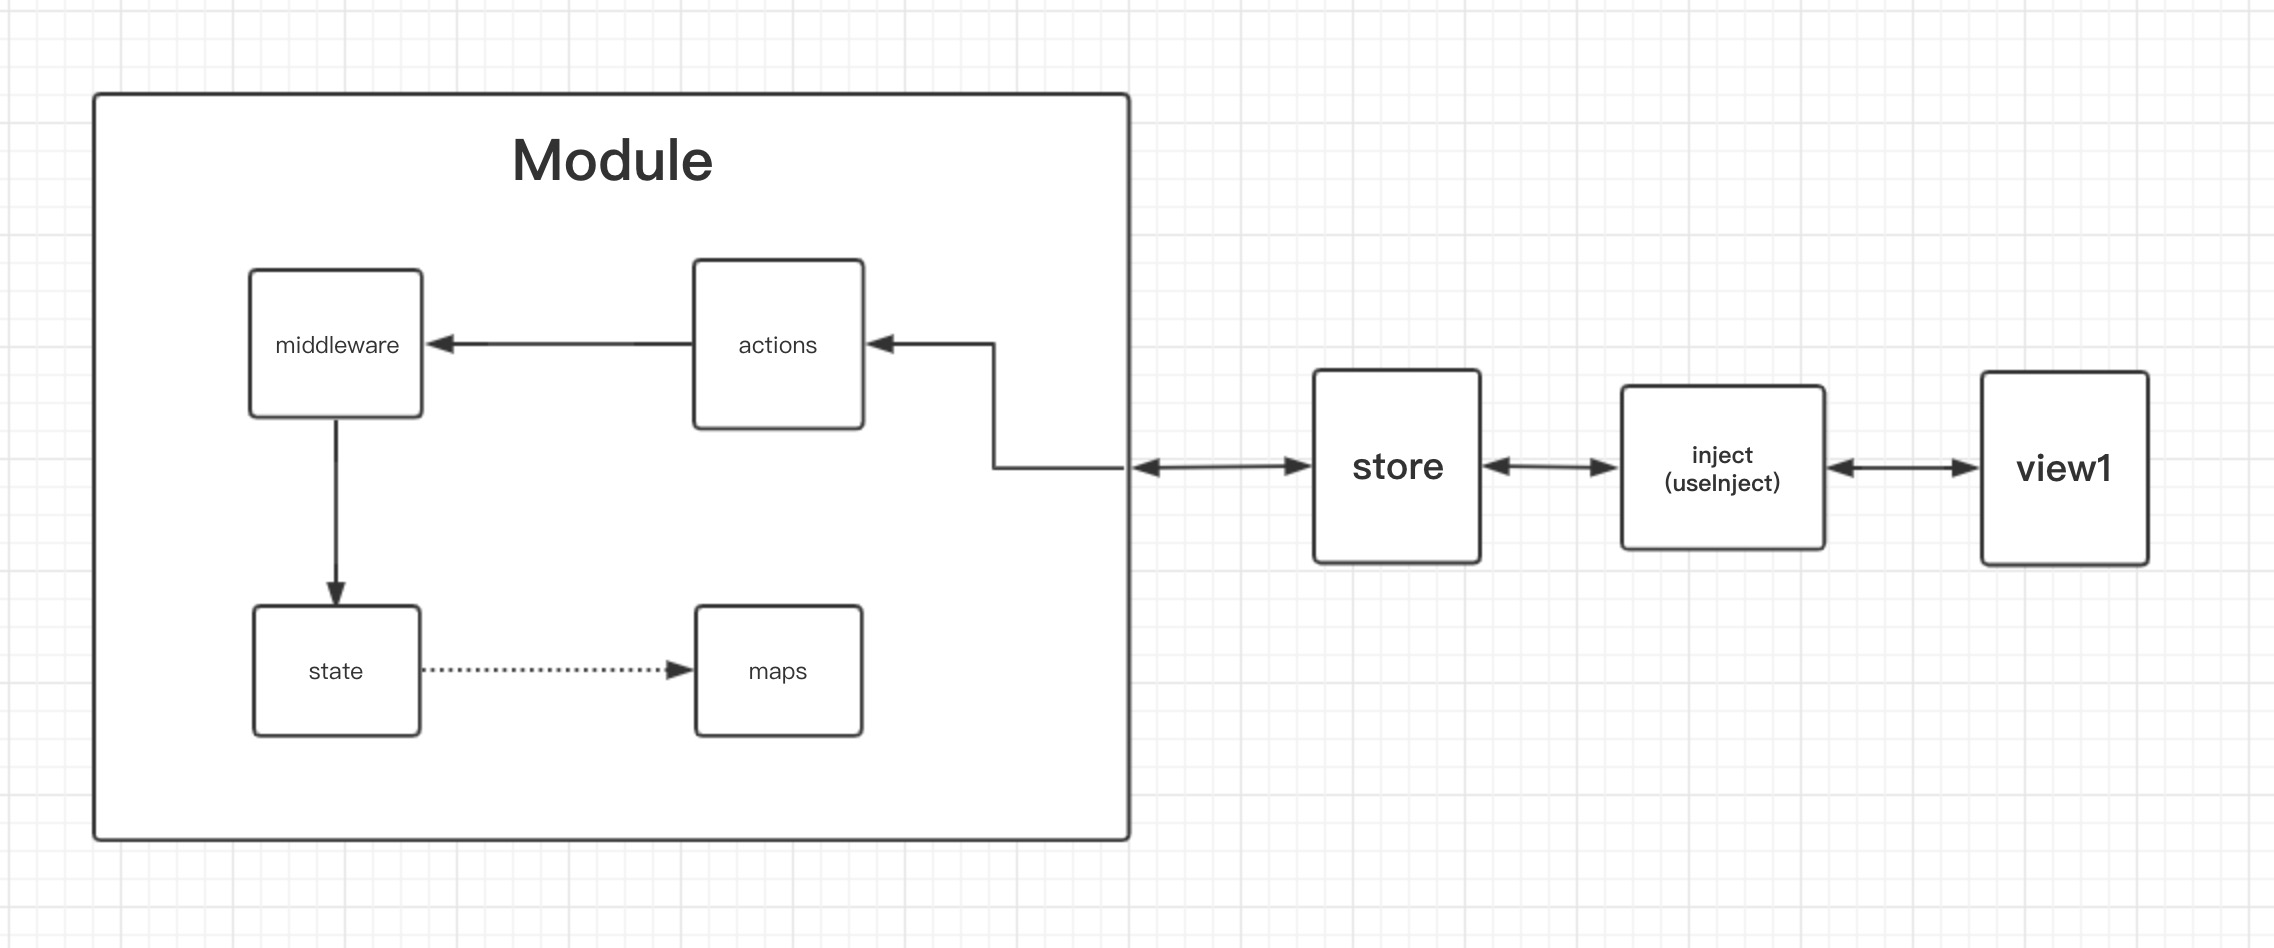
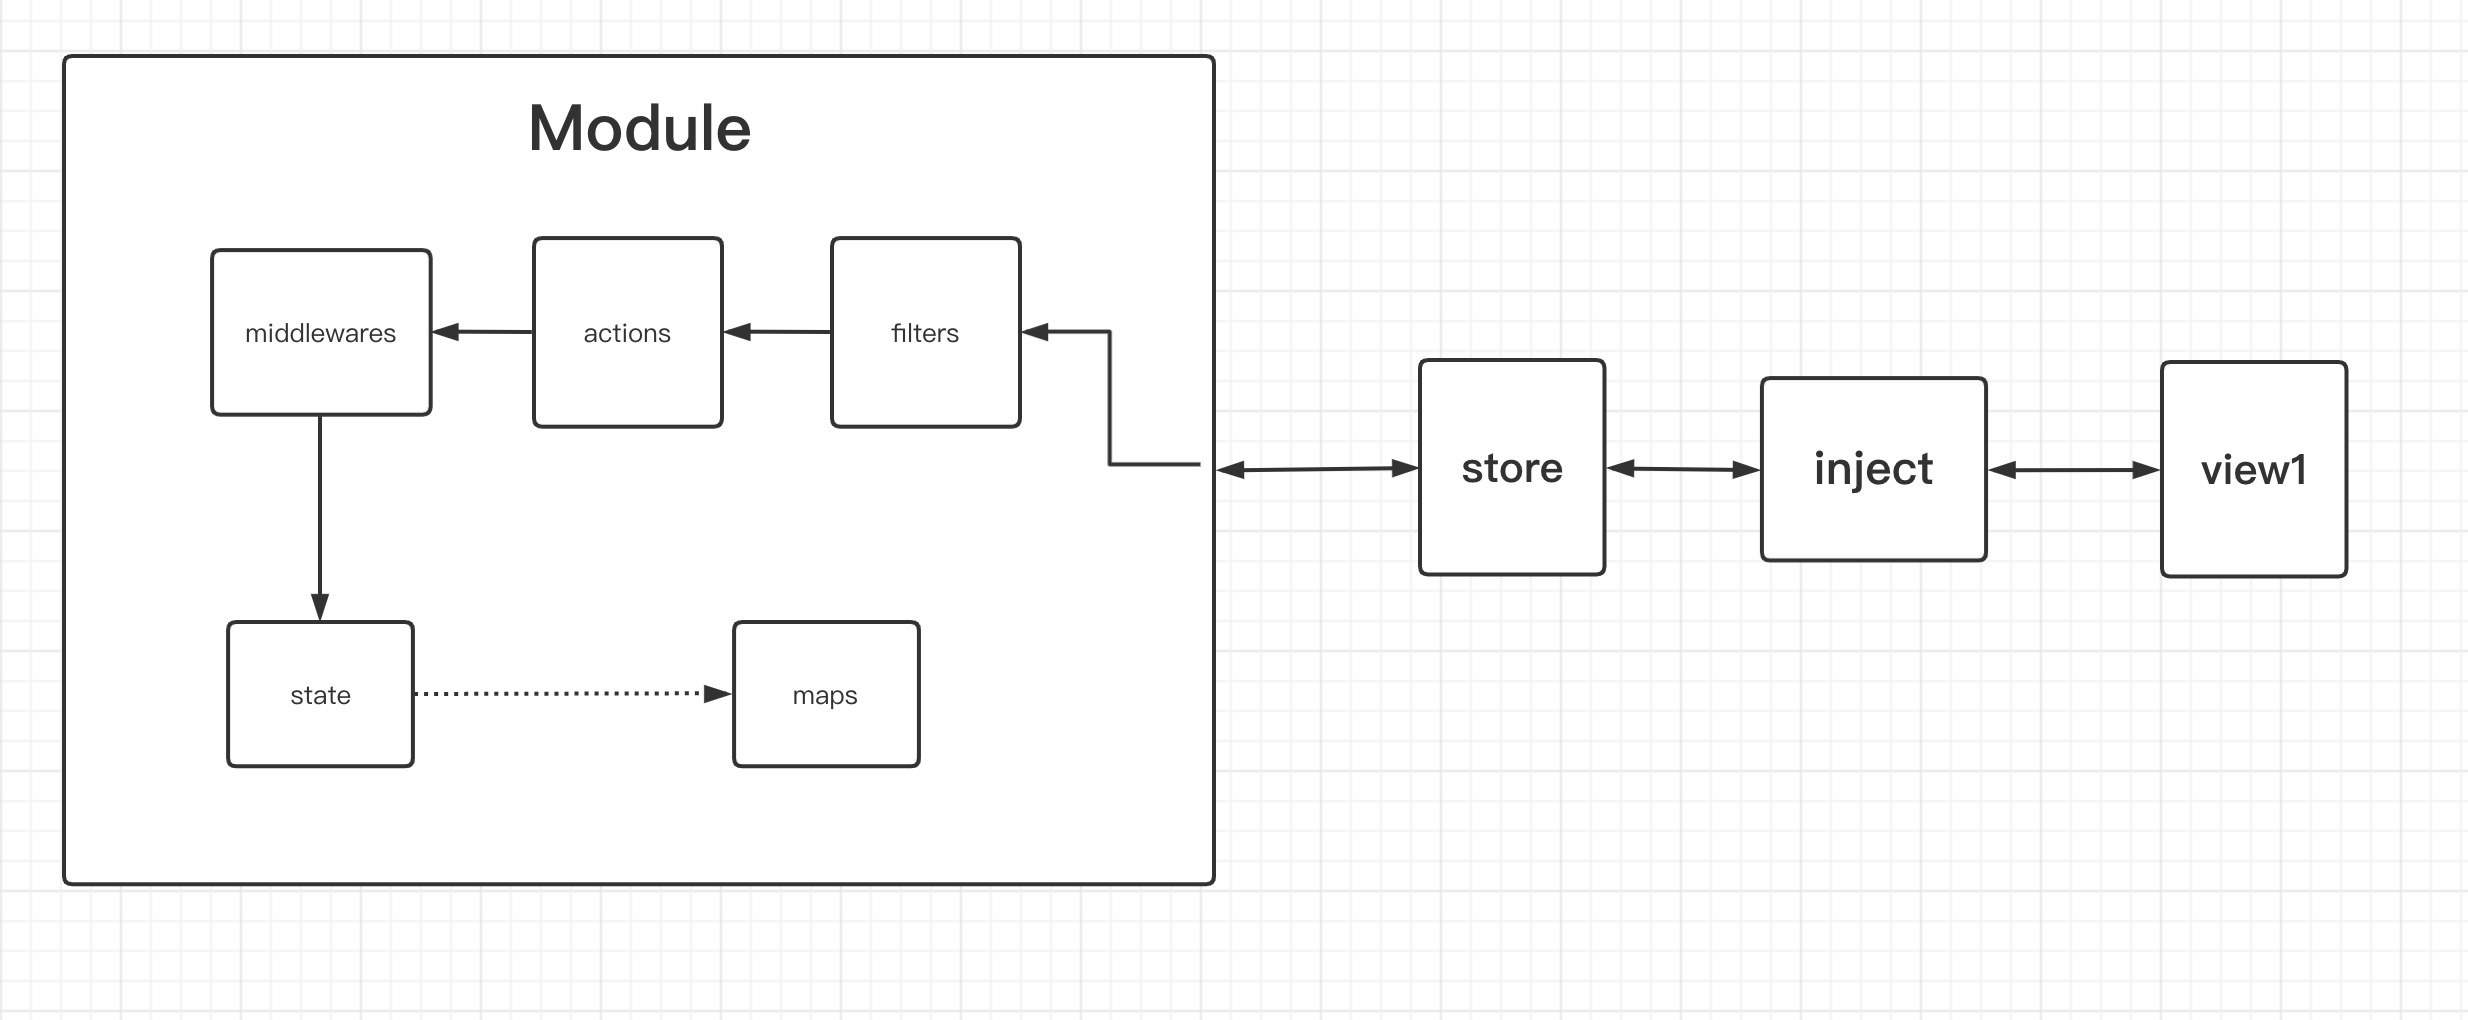
filter更名为interceptor

Changed region(s): [[0.0312, 0.0918, 0.9679, 0.8871], [0.0312, 0.0306, 0.4996, 0.0612]]

diff --git a/src/createStore.ts b/src/createStore.ts
@@ -26,7 +26,7 @@ import {
 	Action,
 	PromiseModuleType,
 	AllStates,
-	Filter,
+	Interceptor,
 } from "./ts-utils";
 
 import MapCache from "./MapCache";
@@ -37,7 +37,7 @@ const createStore = <M extends Modules, LM extends LazyStoreModules>(
 	{
 		initStates = {},
 		middlewares = [],
-		filters = [],
+		interceptors = [],
 	}: {
 		initStates?: Partial<
 			{
@@ -48,7 +48,7 @@ const createStore = <M extends Modules, LM extends LazyStoreModules>(
 			}
 		>,
 		middlewares?: Middleware<GenerateStoreType<M, LM>>[],
-		filters?: Filter<GenerateStoreType<M, LM>>[]
+		interceptors?: Interceptor<GenerateStoreType<M, LM>>[]
 	} = {}
 ) => {
 	// type ModuleName = keyof M | keyof LM;
@@ -109,7 +109,7 @@ const createStore = <M extends Modules, LM extends LazyStoreModules>(
 	 * 存放createStore中传入的middlewares配置
 	 */
 	let currentMiddlewares = [...middlewares];
-	let currentFilters = [...filters];
+	let currentInterceptors = [...interceptors];
 	/**
 	 * 这是一个缓存，用于存放，每个模块对应的setState代理
 	 * 在每个模块生成对应的action代理时，会产生一个setState的方法，
@@ -590,12 +590,12 @@ const createStore = <M extends Modules, LM extends LazyStoreModules>(
 			Middleware<StoreType>
 		>)(setState);
 
-		const filterChain = currentFilters.map(
-			(middleware: Filter<StoreType>) =>
+		const filterChain = currentInterceptors.map(
+			(middleware: Interceptor<StoreType>) =>
 				middleware(middlewareParams as any)
 		);
-		const runActionProxyWithFilters = (compose(...filterChain) as ReturnType<
-			Filter<StoreType>
+		const runActionProxyWithInterceptors = (compose(...filterChain) as ReturnType<
+			Interceptor<StoreType>
 		>)(filterRecord => {
 			return setStateProxyWithMiddleware({
 				moduleName,
@@ -606,7 +606,7 @@ const createStore = <M extends Modules, LM extends LazyStoreModules>(
 		
 		setStateProxyWithMiddlewareCache[moduleName] = setStateProxyWithMiddleware;
 
-		return (actionName: string, ...actionArgs: any[]) => runActionProxyWithFilters({
+		return (actionName: string, ...actionArgs: any[]) => runActionProxyWithInterceptors({
 			moduleName,
 			actionName,
 			actionArgs
@@ -640,7 +640,7 @@ const createStore = <M extends Modules, LM extends LazyStoreModules>(
 		listeners = {};
 		allModuleNames = undefined;
 		currentMiddlewares = [];
-		currentFilters = [];
+		currentInterceptors = [];
 	};
 	/**
 	 * 初始化store

diff --git a/dist/createStore.js b/dist/createStore.js
@@ -28,8 +28,8 @@ var createStore = function createStore(modules, lazyModules, _temp) {
       initStates = _ref$initStates === void 0 ? {} : _ref$initStates,
       _ref$middlewares = _ref.middlewares,
       middlewares = _ref$middlewares === void 0 ? [] : _ref$middlewares,
-      _ref$filters = _ref.filters,
-      filters = _ref$filters === void 0 ? [] : _ref$filters;
+      _ref$interceptors = _ref.interceptors,
+      interceptors = _ref$interceptors === void 0 ? [] : _ref$interceptors;
 
   /**
    * 存放store实例
@@ -77,7 +77,7 @@ var createStore = function createStore(modules, lazyModules, _temp) {
    */
 
   var currentMiddlewares = [].concat(middlewares);
-  var currentFilters = [].concat(filters);
+  var currentInterceptors = [].concat(interceptors);
   /**
    * 这是一个缓存，用于存放，每个模块对应的setState代理
    * 在每个模块生成对应的action代理时，会产生一个setState的方法，
@@ -607,10 +607,10 @@ var createStore = function createStore(modules, lazyModules, _temp) {
       return middleware(middlewareParams);
     });
     var setStateProxyWithMiddleware = compose.apply(void 0, middlewareChain)(setState);
-    var filterChain = currentFilters.map(function (middleware) {
+    var filterChain = currentInterceptors.map(function (middleware) {
       return middleware(middlewareParams);
     });
-    var runActionProxyWithFilters = compose.apply(void 0, filterChain)(function (filterRecord) {
+    var runActionProxyWithInterceptors = compose.apply(void 0, filterChain)(function (filterRecord) {
       return setStateProxyWithMiddleware({
         moduleName: moduleName,
         actionName: filterRecord.actionName,
@@ -623,7 +623,7 @@ var createStore = function createStore(modules, lazyModules, _temp) {
         actionArgs[_key3 - 1] = arguments[_key3];
       }
 
-      return runActionProxyWithFilters({
+      return runActionProxyWithInterceptors({
         moduleName: moduleName,
         actionName: actionName,
         actionArgs: actionArgs
@@ -663,7 +663,7 @@ var createStore = function createStore(modules, lazyModules, _temp) {
     listeners = {};
     allModuleNames = undefined;
     currentMiddlewares = [];
-    currentFilters = [];
+    currentInterceptors = [];
   };
   /**
    * 初始化store

diff --git a/dist/ts-utils.d.ts b/dist/ts-utils.d.ts
@@ -62,21 +62,21 @@ export declare type ModuleName<M, LM> = keyof M | keyof LM;
 export declare type Middleware<StoreType extends {
     [k: string]: InjectStoreModule;
 }> = (middlewareParams: MiddlewareParams<StoreType>) => (next: MiddlewareNext) => MiddlewareNext;
-export declare type FilterActionRecord = {
+export declare type InterceptorActionRecord = {
     moduleName: string;
     actionName: string;
     actionArgs: Parameters<Action>;
 };
-export declare type FilterNext = (record: FilterActionRecord) => ReturnType<Action>;
-export declare type FilterParams<StoreType extends InjectStoreModules> = {
+export declare type InterceptorNext = (record: InterceptorActionRecord) => ReturnType<Action>;
+export declare type InterceptorParams<StoreType extends InjectStoreModules> = {
     setState: MiddlewareNext;
     getState: () => State;
     getMaps: () => InjectMaps | undefined;
     dispatch: <MN extends keyof StoreType, AN extends keyof StoreType[MN]['actions']>(moduleName: MN, actionName: AN, ...arg: Parameters<StoreType[MN]['actions'][AN]>) => ReturnType<StoreType[MN]['actions'][AN]>;
 };
-export declare type Filter<StoreType extends {
+export declare type Interceptor<StoreType extends {
     [k: string]: InjectStoreModule;
-}> = (filterParams: FilterParams<StoreType>) => (next: FilterNext) => FilterNext;
+}> = (filterParams: InterceptorParams<StoreType>) => (next: InterceptorNext) => InterceptorNext;
 declare type Fn<T extends Array<any>, S extends any> = (...arg: T) => S;
 declare type ActionArg<Action extends AnyFun> = Parameters<Action>;
 /**

diff --git a/src/ts-utils.ts b/src/ts-utils.ts
@@ -81,24 +81,24 @@ export type Middleware<StoreType extends {
 
 
 
-export type FilterActionRecord = {
+export type InterceptorActionRecord = {
 	moduleName: string, 
 	actionName: string, 
 	actionArgs: Parameters<Action>
 };
 
-export type FilterNext = (record: FilterActionRecord) => ReturnType<Action>;
+export type InterceptorNext = (record: InterceptorActionRecord) => ReturnType<Action>;
 
-export type FilterParams<StoreType extends InjectStoreModules> = {
+export type InterceptorParams<StoreType extends InjectStoreModules> = {
 	setState: MiddlewareNext,
 	getState: () => State,
 	getMaps: () => InjectMaps | undefined,
 	dispatch: <MN extends keyof StoreType, AN extends keyof StoreType[MN]['actions']>(moduleName: MN, actionName: AN, ...arg: Parameters<StoreType[MN]['actions'][AN]>) => ReturnType<StoreType[MN]['actions'][AN]>;
 };
 
-export type Filter<StoreType extends {
+export type Interceptor<StoreType extends {
 	[k: string]: InjectStoreModule
-}> = (filterParams: FilterParams<StoreType>) => (next: FilterNext) => FilterNext;
+}> = (filterParams: InterceptorParams<StoreType>) => (next: InterceptorNext) => InterceptorNext;
 
 
 type Fn<T extends Array<any>, S extends any> = (...arg: T) => S;

diff --git a/dist/index.d.ts b/dist/index.d.ts
@@ -8,7 +8,7 @@
 import MapCache from './MapCache';
 export { default as createInject } from "./inject";
 export { default as createStore, } from "./createStore";
-export { ModuleEvent, Listener, State, States, Action, Actions, StoreMap, Maps, InjectMaps, StoreModule, InjectStoreModule, InjectStoreModules, LazyStoreModules, Modules, MiddlewareActionRecord, MiddlewareNext, MiddlewareParams, GlobalResetStatesOption, ModuleName, Middleware, Store, ModuleType, GenMapsType, GenActionsType, GenerateStoreType, } from './ts-utils';
+export { ModuleEvent, Listener, State, States, Action, Actions, StoreMap, Maps, InjectMaps, StoreModule, InjectStoreModule, InjectStoreModules, LazyStoreModules, Modules, GlobalResetStatesOption, ModuleName, MiddlewareActionRecord, MiddlewareNext, MiddlewareParams, Middleware, InterceptorActionRecord, InterceptorNext, InterceptorParams, Interceptor, Store, ModuleType, GenMapsType, GenActionsType, GenerateStoreType, } from './ts-utils';
 export { ThunkParams } from './middlewares';
 export declare const setMapDepParser: typeof MapCache.setMapDepParser;
 export declare const resetMapDepParser: typeof MapCache.resetMapDepParser;

diff --git a/dist/createStore.d.ts b/dist/createStore.d.ts
@@ -1,7 +1,7 @@
-import { GenerateStoreType, PickPromiseType, Modules, LazyStoreModules, Middleware, Store, AllStates, Filter } from "./ts-utils";
-declare const createStore: <M extends Modules, LM extends LazyStoreModules>(modules?: M, lazyModules?: LM, { initStates, middlewares, filters, }?: {
+import { GenerateStoreType, PickPromiseType, Modules, LazyStoreModules, Middleware, Store, AllStates, Interceptor } from "./ts-utils";
+declare const createStore: <M extends Modules, LM extends LazyStoreModules>(modules?: M, lazyModules?: LM, { initStates, middlewares, interceptors, }?: {
     initStates?: Partial<{ [k in keyof GenerateStoreType<M, LM>]: GenerateStoreType<M, LM>[k]["state"]; }> | undefined;
     middlewares?: Middleware<GenerateStoreType<M, LM>>[] | undefined;
-    filters?: Filter<GenerateStoreType<M, LM>>[] | undefined;
+    interceptors?: Interceptor<GenerateStoreType<M, LM>>[] | undefined;
 }) => Store<M, LM, GenerateStoreType<M, LM>, M & { [k_1 in keyof LM]: PickPromiseType<LM[k_1]>; }, AllStates<M, LM>>;
 export default createStore;

diff --git a/test/interceptor.test.js b/test/interceptor.test.js
@@ -49,7 +49,7 @@ describe('filter', () => {
 				thunkMiddleware,
 				promiseMiddleware
             ],
-            filters: [
+            interceptors: [
                 filter1,
             ],
 			initStates: {
@@ -85,7 +85,7 @@ describe('filter', () => {
                 }
             },
         }, {}, {
-            filters: [
+            interceptors: [
                 filter1,
                 filter2,
             ],
@@ -116,7 +116,7 @@ describe('filter', () => {
                 }
             },
         }, {}, {
-            filters: [
+            interceptors: [
                 filter,
             ],
 		});

diff --git a/src/index.ts b/src/index.ts
@@ -26,12 +26,19 @@ export {
 	InjectStoreModules,
 	LazyStoreModules,
 	Modules,
+	GlobalResetStatesOption,
+	ModuleName,
+	
 	MiddlewareActionRecord,
 	MiddlewareNext,
 	MiddlewareParams,
-	GlobalResetStatesOption,
-	ModuleName,
 	Middleware,
+
+	InterceptorActionRecord,
+	InterceptorNext,
+	InterceptorParams,
+	Interceptor,
+
 	Store,
 	ModuleType,
 	GenMapsType,

diff --git a/doc/README.en.md b/doc/README.en.md
@@ -438,7 +438,7 @@ export default store;
 ```jsx
 
 
-import { createStore, MiddleWare, MiddlewareNext, Record } from 'natur';
+import { createStore, MiddleWare, MiddlewareNext, MiddlewareActionRecord } from 'natur';
 const app = {
   state: {
     name: 'tom',
@@ -450,13 +450,13 @@ const app = {
 };
 /*
 
-type Record = {
+type MiddlewareActionRecord = {
   moduleName: String,
   actionName: String,
   state: ReturnType<Action>,
 }
 
-type MiddlewareNext = (record: Record) => ReturnType<Action>;
+type MiddlewareNext = (record: MiddlewareActionRecord) => ReturnType<Action>;
 
 middlewareParams: {
   setState: MiddlewareNext, 
@@ -466,7 +466,7 @@ middlewareParams: {
 };
 
 */
-const LogMiddleware: MiddleWare = (middlewareParams) => (next: MiddlewareNext) => (record: Record) => {
+const LogMiddleware: MiddleWare = (middlewareParams) => (next: MiddlewareNext) => (record: MiddlewareActionRecord) => {
   console.log(`${record.moduleName}: ${record.actionName}`, record.state);
   return next(record); // You should return, only then will you have a return value when the page calls the action
   // return middlewareParams.setState(record); // You should return, only then will you have a return value when the page calls the action
@@ -528,7 +528,7 @@ const state = {a: 1, b:2};
 const action = () => ({a: 1, b:2}) // Same as the old state, do not update the view
 ```
 
-- filterUndefinedMiddleware: Filter actions that return undefined
+- filterUndefinedMiddleware: Interceptor actions that return undefined
 ```typescript
 const action = () => undefined; // The return of this action will not be used as the new state
 ```
@@ -592,7 +592,7 @@ const store = createStore(
       promiseMiddleware, // action supports asynchronous operations
       fillObjectRestDataMiddleware, // Incremental state update / overwrite update
       shallowEqualMiddleware, // Shallow contrast optimization between old and new state
-      filterUndefinedMiddleware, // Filter actions with no return value
+      filterUndefinedMiddleware, // Interceptor actions with no return value
       devTool,
     ]
   },
@@ -880,6 +880,7 @@ createStore(
   options?: {
     initStates?: States,
     middlewares?: Middleware[],
+    interceptors?: Interceptor[],
   }
 ) => Store;
 ````

diff --git a/README.md b/README.md
@@ -437,7 +437,7 @@ export default store;
 ```jsx
 
 
-import { createStore, MiddleWare, MiddlewareNext, Record } from 'natur';
+import { createStore, MiddleWare, MiddlewareNext, MiddlewareActionRecord } from 'natur';
 const app = {
   state: {
     name: 'tom',
@@ -449,13 +449,13 @@ const app = {
 };
 /*
 
-type Record = {
+type MiddlewareActionRecord = {
   moduleName: String,
   actionName: String,
   state: ReturnType<Action>,
 }
 
-type MiddlewareNext = (record: Record) => ReturnType<Action>;
+type MiddlewareNext = (record: MiddlewareActionRecord) => ReturnType<Action>;
 
 middlewareParams: {
   setState: MiddlewareNext, 
@@ -465,7 +465,7 @@ middlewareParams: {
 };
 
 */
-const LogMiddleware: MiddleWare = (middlewareParams) => (next: MiddlewareNext) => (record: Record) => {
+const LogMiddleware: MiddleWare = (middlewareParams) => (next: MiddlewareNext) => (record: MiddlewareActionRecord) => {
   console.log(`${record.moduleName}: ${record.actionName}`, record.state);
   return next(record); // 你应该return, 只有这样你在页面调用action的时候才会有返回值
   // return middlewareParams.setState(record); // 你应该return，只有这样你在页面调用action的时候才会有返回值
@@ -895,6 +895,7 @@ createStore(
   options?: {
     initStates?: States,
     middlewares?: Middleware[],
+    interceptors?: Interceptor[],
   }
 ) => Store;
 ````
